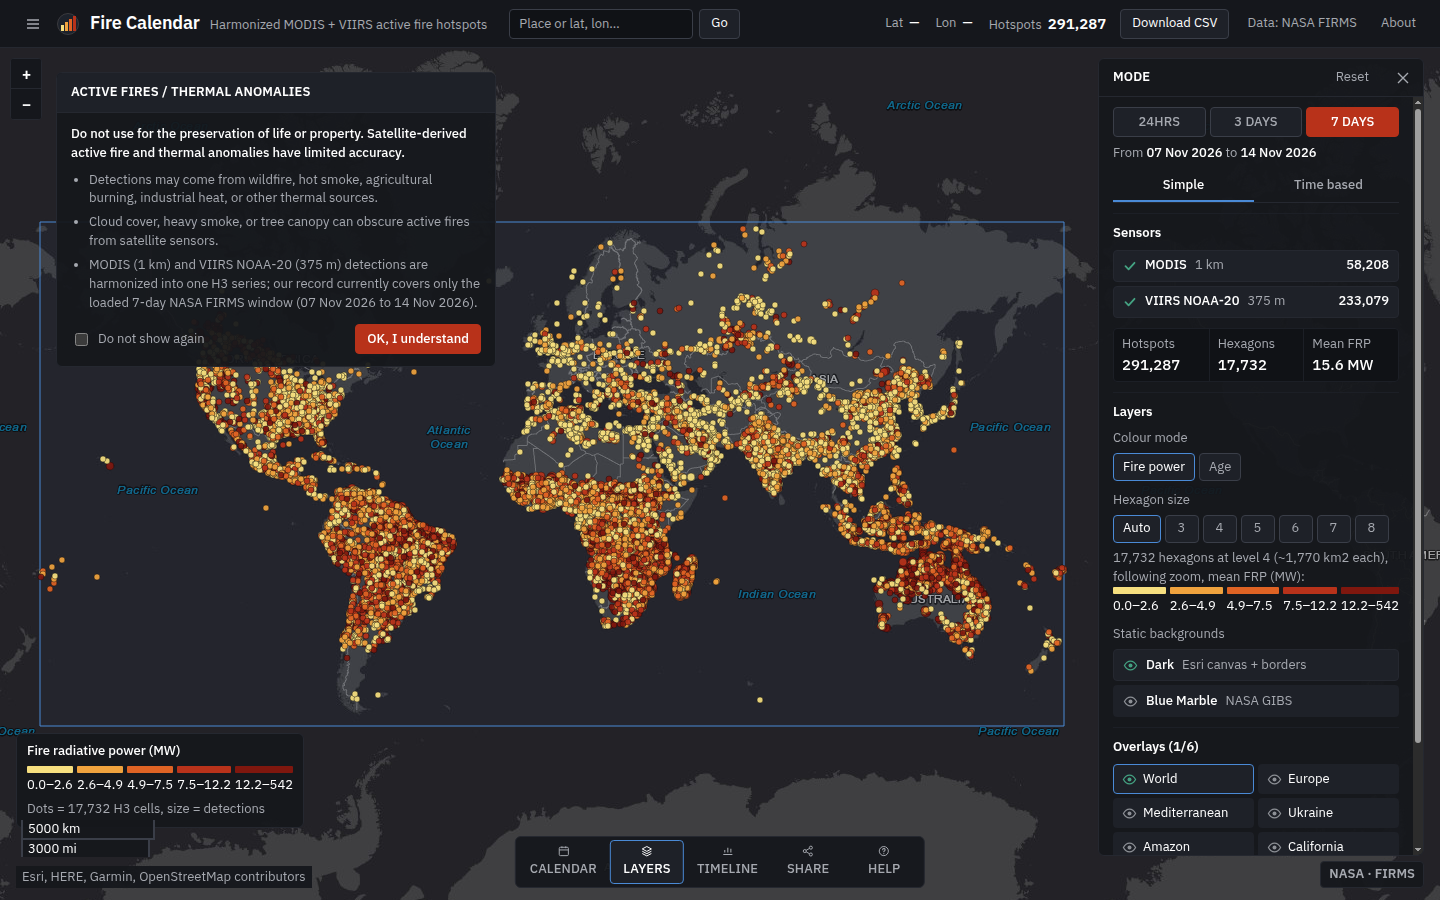
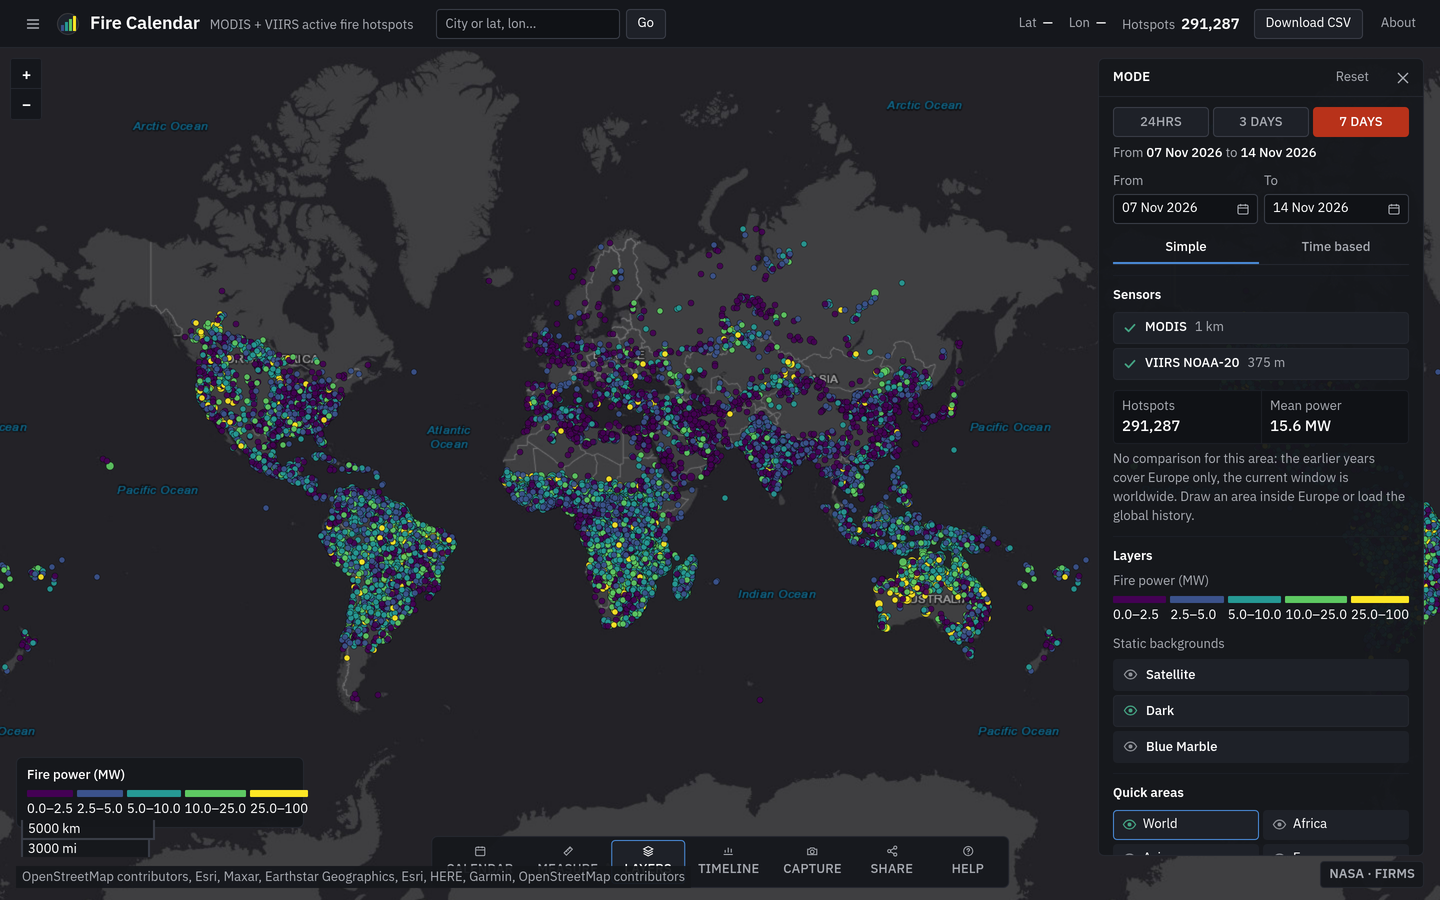
README: fresh screenshot, section on H3 cells and polygons

diff --git a/README.md b/README.md
@@ -12,7 +12,7 @@ They measure differently, so their data cannot be compared directly. This app tu
 Pick an area and a period. The app shows where fires were, when they happened, and whether the
 current month is above or below the normal level.
 
-![Fire Calendar — world view with harmonized hotspots, totals and burning calendar](docs/screenshots/full.png)
+![Fire Calendar — world view with harmonized hotspots, totals and the time panel](docs/screenshots/full.png)
 
 ## What you can do
 
@@ -21,6 +21,18 @@ current month is above or below the normal level.
 - Read the burning calendar: year by month, then day by day, with the peak day
 - Compare the selected month with the median of the same days in earlier years
 - Download exactly what you see as a CSV file
+
+## Only the data that is needed
+
+- **H3 cells, not single points.** Every detection gets an H3 cell (level 8, ~0.74 km²) when it is
+  imported, and the map asks for cells instead of detections: one shape per cell, carrying the number of
+  detections and the mean fire power, at a resolution that follows the zoom. A worldwide week is about
+  17,700 shapes instead of 291,000 points, and the number stays bounded however far the map is zoomed out.
+- **Polygons for areas.** The area you draw is a polygon: the server keeps only what lies inside it — an
+  exact box for the map, an H3 polygon fill for cell and calendar queries — so a query touches the cells
+  of that area, never the whole table.
+- **Detections on request only.** Individual rows are never drawn on the map; the CSV export is the one
+  place that returns them.
 
 ## How two sensors become one series
 
